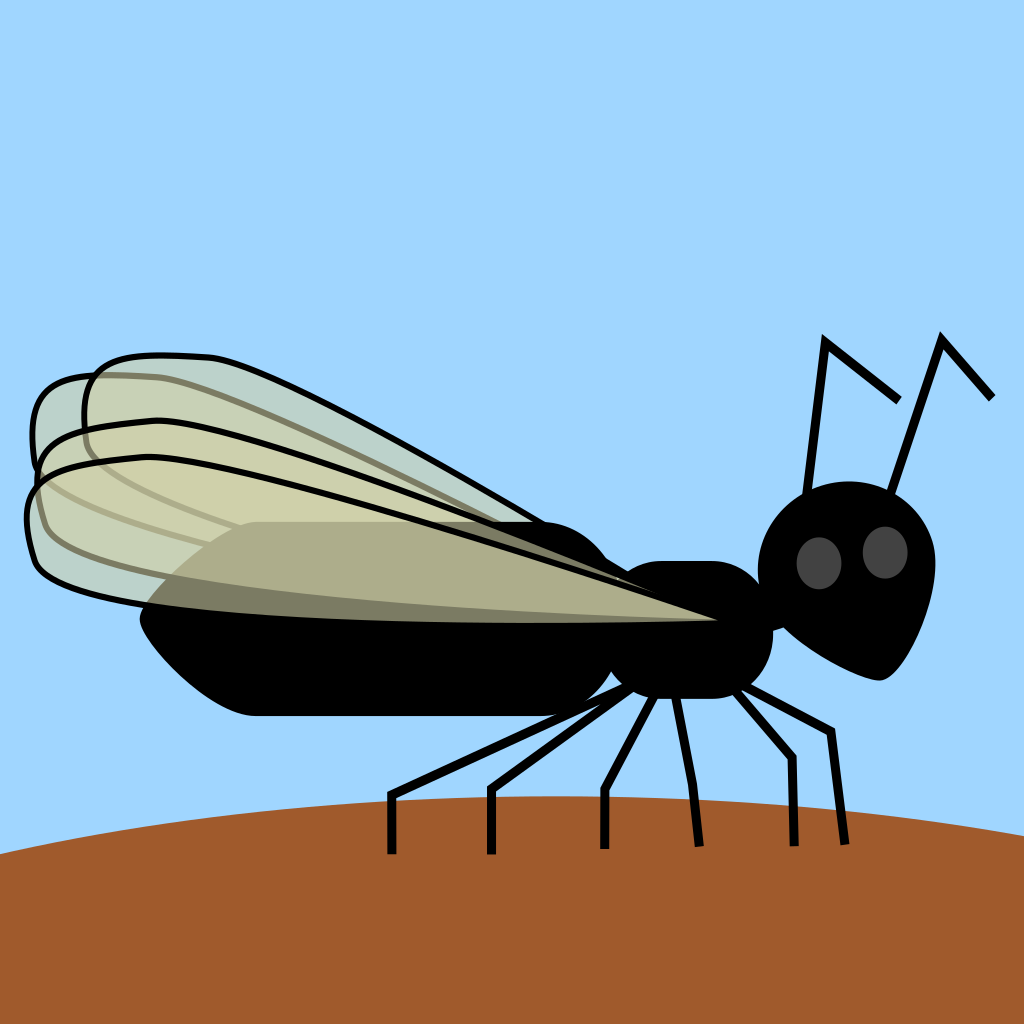
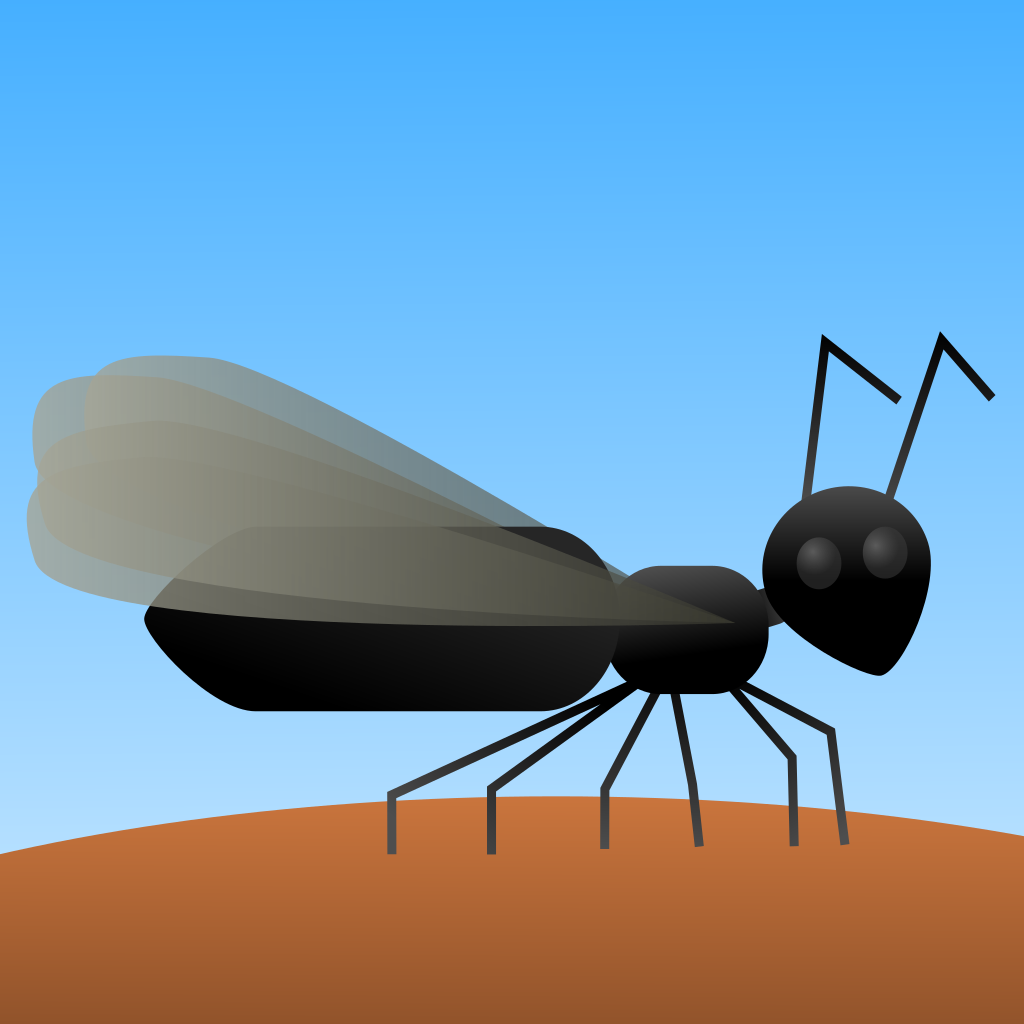
Begin updating the website.

diff --git a/nuptialtracker/nuptiallog/templates/nuptiallog/template.html b/nuptialtracker/nuptiallog/templates/nuptiallog/template.html
@@ -7,12 +7,23 @@
 <head>
     <title>{% block title%}Title -- AntNupTracker{% endblock %}</title>
     <meta name="viewport" content="width=device-width, initial-scale=1.0">
+    <script>
+        // Based on answer by Ashis Kumar at https://stackoverflow.com/questions/18032220/how-to-change-source-of-img-tag-on-hover
+        function hoverAntIcon(element){
+            element.setAttribute("src", "{% static 'nuptiallog/images/cartoon_ant_black.png' %}");
+        }
+
+        function unhoverAntIcon(element){
+            element.setAttribute("src", "{% static 'nuptiallog/images/cartoon_ant_brown.png' %}");
+        }
+    </script>
     {% block scripts %}{% endblock scripts%}
 </head>
 <body>
     {% block toolbar %}
     {% if not mobile %}
     <div id="toolbar">
+        <a href="{% url 'home' %}"><img src="{% static 'nuptiallog/images/cartoon_ant_brown.png' %}" height="54px" style="vertical-align: middle" alt="AntNupTracker ant mascot" onmouseenter="hoverAntIcon(this)" onmouseleave="unhoverAntIcon(this)"></a>
         <a id="home" href="{% url 'home' %}" class="menubutton">AntNupTracker</a>
         <a id="about" href="{% url 'about' %}" class="menubutton">About</a>
         {% if not update_development %}
@@ -37,18 +48,24 @@
     {% block content %}
 
     <h1>Page Title</h1>
-    
+
     {% endblock %}
 
     {% block footer %}
     <div class="footer">
-        <div class="appiconholder">
+        <img src="{% static 'nuptiallog/images/ants_together.png' %}" alt="Cartoon ants" height="100px" style="display:block; margin-left: auto;margin-right: auto;">
+        <!-- <div class="appiconholder">
             <img id="appicon" src="{% static 'nuptiallog/images/appicon.png' %}" width="160">
-        </div>
+        </div> -->
         <a rel="license" href="http://creativecommons.org/licenses/by-sa/4.0/"><img alt="Creative Commons Licence" style="border-width:0" src="https://i.creativecommons.org/l/by-sa/4.0/88x31.png" /></a><br />All flight data is licensed under a <a rel="license" href="http://creativecommons.org/licenses/by-sa/4.0/">Creative Commons Attribution-ShareAlike 4.0 International License</a>.<br>
-        <a id="appStoreHolder" href="https://apps.apple.com/us/app/id1493362260">
-            <img id="downloadAppStore" src="{% static 'nuptiallog/images/proprietary/Download_on_the_App_Store_Badge_US-UK_RGB_blk_092917.svg' %}" alt="Download on App Store" height="45px">
+        <div id="appDownloadButtonHolder">
+        <a class="appStoreHolder" href="https://apps.apple.com/us/app/id1493362260">
+            <img class="downloadApp" src="{% static 'nuptiallog/images/proprietary/Download_on_the_App_Store_Badge_US-UK_RGB_blk_092917.svg' %}" alt="Download on App Store" height="45px">
         </a>
+        <a class="appStoreHolder" href='https://play.google.com/store/apps/details?id=com.bzrudski.ant_nup_tracker&pcampaignid=pcampaignidMKT-Other-global-all-co-prtnr-py-PartBadge-Mar2515-1'>
+            <img class="downloadApp" alt='Get it on Google Play' src='https://play.google.com/intl/en_us/badges/static/images/badges/en_badge_web_generic.png' height="70px"/>
+        </a>
+        </div>
         <br>
         For questions, feel free to contact us at <a href="mailto:nuptialtracker@gmail.com">nuptialtracker@gmail.com</a>.
         <br>
@@ -72,7 +89,7 @@
         </div>
         <br><br>
         <div class="trademarks">
-            App Store is a trademark of Apple Inc., registered in the U.S. and other countries. Facebook is a trademark of Facebook, Inc. The GitHub logo is a trademark of GitHub, Inc.
+            App Store is a trademark of Apple Inc., registered in the U.S. and other countries. Facebook is a trademark of Facebook, Inc. The GitHub logo is a trademark of GitHub, Inc. Google Play and the Google Play logo are trademarks of Google LLC.
         </div>
     </div>
     {% endblock %}

diff --git a/nuptialtracker/static/nuptiallog/styles/styles.css b/nuptialtracker/static/nuptiallog/styles/styles.css
@@ -5,10 +5,14 @@ html{
 }
 
 body{
-    background-color: #bfedff;
+    /* background-color: #bfedff; */
+    background-image: linear-gradient(to top, #c9e8ff, #45afff);
+    background-repeat: no-repeat;
     align-items: center;
     justify-content: center;
-    height: 100%;
+    /* height: 100%; */
+    height: max-content;
+    background-attachment: fixed;
     margin: 0;
 }
 h1 {
@@ -56,6 +60,7 @@ a {
     text-align: center;
     padding: 20pt 15pt;
     cursor: pointer;
+    box-shadow: 5px 5px 3px #0b0b0b;
 }
 
 .button:hover{
@@ -120,9 +125,9 @@ a.menubutton:hover{
 
 .textbody{
     text-align: left;
-    margin: 2%;
-    padding: 2%;
-    line-height: 200%;
+    margin: 0% 2% 2%;
+    padding: 0% 2%;
+    /* line-height: 200%; */
 }
 
 .textbody p {
@@ -390,7 +395,7 @@ a.nextprevbutton:hover {
 
 #formbody{
     display: flex;
-    padding: 2%;
+    /* padding: 2%; */
     text-align: left;
     margin: 2%;
     font-size: large;
@@ -420,7 +425,8 @@ a.nextprevbutton:hover {
     margin-left: auto;
     margin-right: auto;
     width: 70%;
-    border: 2px #000000 solid;
+    /* border: 2px #000000 solid; */
+    box-shadow: 5px 5px 3px #0b0b0b;
 }
 
 #appicon{
@@ -457,21 +463,40 @@ a.nextprevbutton:hover {
     margin-right: auto;
 }
 
-#downloadAppStore {
-    margin: 12px;
-}
-
-#appStoreHolder {
+#appDownloadButtonHolder {
+    vertical-align: middle;
+    text-align: center;
     display: inline-block;
 }
 
-#bigAppStoreDownload{
-    margin: 18px;
+.downloadApp {
+    margin: 12px;
+    display: inline-block;
+    vertical-align: middle;
 }
 
-#appStoreContainer {
-    justify-content: center;
+.appStoreHolder {
+    display: inline-block;
+    align-items: center;
+}
+
+.bigAppStoreDownload{
+    margin: 18px;
+    vertical-align: middle;
+}
+
+#bigAppDownloadContainer{
     display: flex;
+    justify-content: center;
+    align-items: center;
+}
+
+.appStoreContainer {
+    justify-content: center;
+    justify-items: center;
+    justify-self: center;
+    display: inline-block;
+    vertical-align: middle;
 }
 
 @media only screen and (max-width: 700px){

diff --git a/nuptialtracker/nuptiallog/templates/nuptiallog/Welcome.html b/nuptialtracker/nuptiallog/templates/nuptiallog/Welcome.html
@@ -5,6 +5,8 @@
     <h1>Welcome to AntNupTracker</h1>
     <h2>The citizen scientist's field tool for recording ant nuptial flights</h2>
 
+    <img src="{% static 'nuptiallog/images/ants_together.png' %}" alt="Cartoon ants" height="100px" style="display:block; margin-left: auto;margin-right: auto;">
+
     <div class="cols">
         <div class="col">
 
@@ -32,9 +34,14 @@
                 </a>
             </div>
             {% endif %}
-            <a id="appStoreContainer" href="https://apps.apple.com/us/app/id1493362260">
-                <img id="bigAppStoreDownload" src="{% static 'nuptiallog/images/proprietary/Download_on_the_App_Store_Badge_US-UK_RGB_blk_092917.svg' %}" alt="Download on App Store" height="72px">
+            <div id="bigAppDownloadContainer">
+            <a class="appStoreContainer" href="https://apps.apple.com/us/app/id1493362260">
+                <img class="bigAppStoreDownload" src="{% static 'nuptiallog/images/proprietary/Download_on_the_App_Store_Badge_US-UK_RGB_blk_092917.svg' %}" alt="Download on App Store" height="72px">
             </a>
+            <a class="appStoreContainer" href='https://play.google.com/store/apps/details?id=com.bzrudski.ant_nup_tracker&pcampaignid=pcampaignidMKT-Other-global-all-co-prtnr-py-PartBadge-Mar2515-1'>
+                <img class="bigAppStoreDownload" alt='Get it on Google Play' src='https://play.google.com/intl/en_us/badges/static/images/badges/en_badge_web_generic.png' height="112px">
+            </a>
+            </div>
         </div>
     </div>
 {% endblock %}

diff --git a/nuptialtracker/nuptiallog/templates/nuptiallog/About.html b/nuptialtracker/nuptiallog/templates/nuptiallog/About.html
@@ -3,6 +3,7 @@
 {% block title %}About -- AntNupTracker{% endblock title %}
 {% block content %}
     <h1>About AntNupTracker</h1>
+    <img src="{% static 'nuptiallog/images/ants_together.png' %}" alt="Cartoon ants" height="100px" style="display:block; margin-left: auto;margin-right: auto;">
     <div class="textbody">
         <h2>About the Project</h2>
         Ants are social insects that live in colonies. A queen spends her life laying eggs, most of which grow into workers. During a short period of the year, when it is
@@ -26,7 +27,7 @@
         <br><br>
         Our website is typeset in <a href="https://fonts.google.com/specimen/Dosis">Dosis</a> by Impallari Type and <a href="https://fonts.google.com/specimen/Open+Sans">Open Sans</a> by Steve Matteson.
         <h2>About Us</h2>
-        The AntNupTracker project is run out of the Abouheif Lab at McGill University in Montreal, Quebec, Canada. It has been developed by Benjamin Rudski, an undergraduate 
-        student at McGill University, under the supervision of Professor Ehab Abouheif.
+        The AntNupTracker project is run out of the Abouheif Lab at McGill University in Montreal, Quebec, Canada. It has been developed by Benjamin Rudski, who began as an undergraduate 
+        student at McGill University, under the supervision of Professor <a href="https://www.abouheiflab.org/">Ehab Abouheif</a>.
     </div>
 {% endblock content %}
